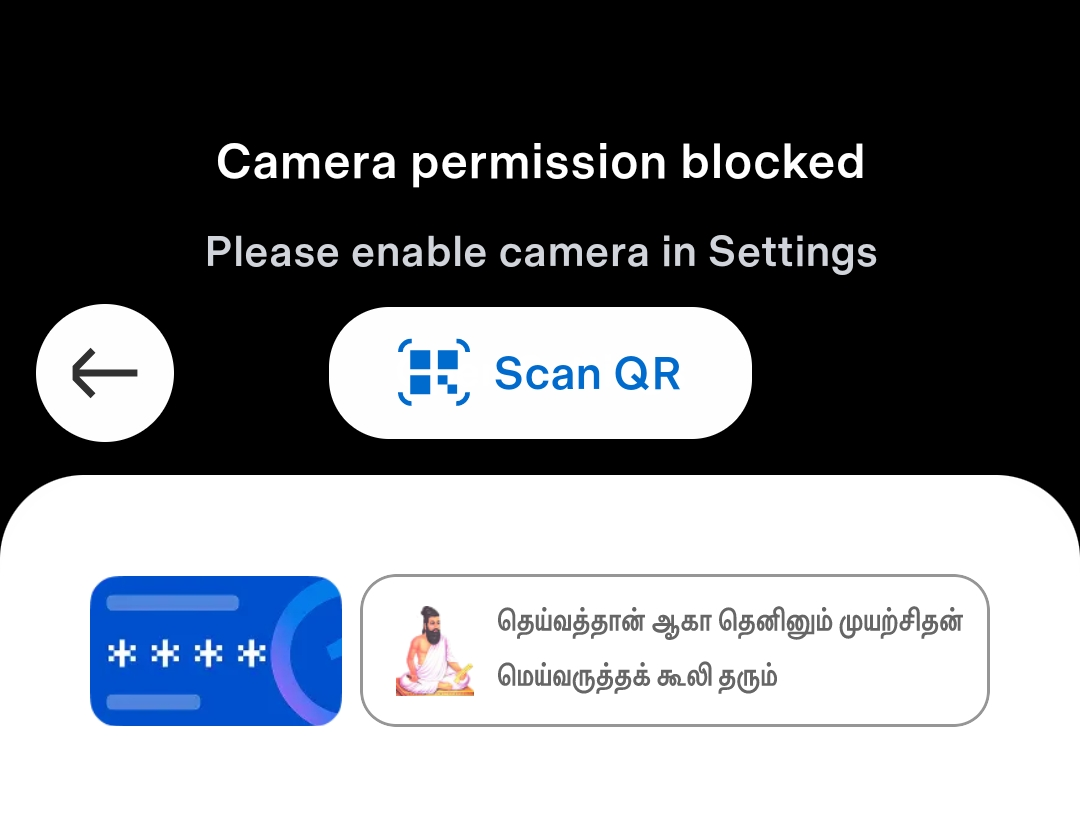
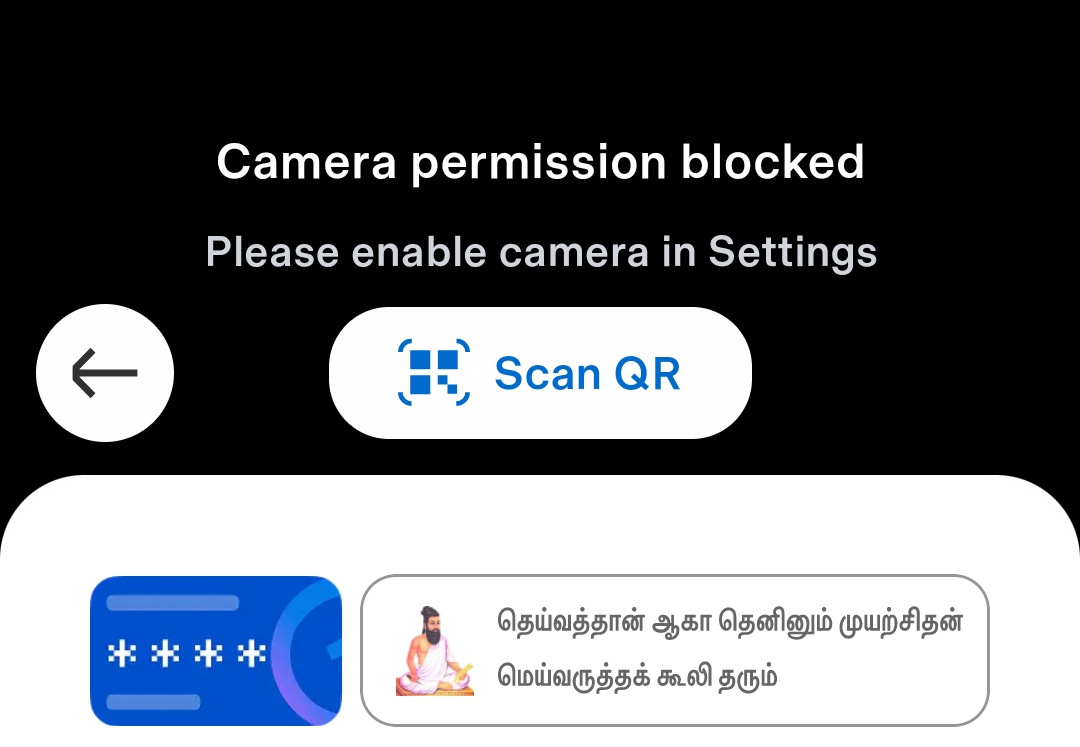
ticket ui update

Changed region(s): [[0.0, 0.2771, 1.0, 0.739], [0.0611, 0.6774, 0.9167, 0.9853], [0.1833, 0.1539, 0.825, 0.2463]]

diff --git a/assets/js/app.js b/assets/js/app.js
@@ -145,7 +145,7 @@ function updateTicketDisplay() {
 function keyPress(char) {
   if (ticketInput.length >= MAX_LEN) return;
 
-  const isAlpha = ['J', 'K', 'I', 'S'].includes(char);
+  const isAlpha = ['J', 'K', 'I', 'S', 'L'].includes(char);
 
   if (ticketInput.length === 0) {
     // First position must be alphabet
@@ -166,9 +166,12 @@ function keyDelete() {
   ticketInput = ticketInput.slice(0, -1);
   updateTicketDisplay();
   updateKeyboardState();
-  if (ticketInput.length === 0) {
-    document.querySelector('.bottom-nav').style.display = 'none'; // stays hidden on ticket page
-  }
+}
+
+function keyClear() {
+  ticketInput = '';
+  updateTicketDisplay();
+  updateKeyboardState();
 }
 
 function updateKeyboardState() {
@@ -192,19 +195,42 @@ function showActivatedStamp(code) {
   document.getElementById('previewBtn').style.display = 'block';
 }
 
+// ── Recently used tickets ──
+function getRecentTickets() {
+  return JSON.parse(localStorage.getItem('recentTickets') || '[]');
+}
+
+function saveRecentTicket(code) {
+  let recent = getRecentTickets().filter(c => c !== code);
+  recent.unshift(code);
+  localStorage.setItem('recentTickets', JSON.stringify(recent.slice(0, 3)));
+}
+
+function renderRecentTickets() {
+  const el = document.getElementById('recentTickets');
+  if (!el) return;
+  const recent = getRecentTickets();
+  el.innerHTML = recent.map(code =>
+    `<div class="recent-chip" onclick="fillFromRecent('${code}')">${code}</div>`
+  ).join('');
+}
+
+function fillFromRecent(code) {
+  ticketInput = code;
+  updateTicketDisplay();
+  updateKeyboardState();
+}
+
 function activatePass() {
   if (ticketInput.length < MAX_LEN) return;
 
   currentEnteredCode = ticketInput;
   localStorage.setItem('enteredCode', currentEnteredCode);
+  saveRecentTicket(currentEnteredCode);
 
-  // Switch to passes page
   switchToPage('passes', 'Passes');
-
-  // Show stamp on card
   showActivatedStamp(currentEnteredCode);
 
-  // Reset ticket input
   ticketInput = '';
   updateTicketDisplay();
 }
@@ -301,9 +327,10 @@ function closeStampPreview() {
   document.getElementById('stampPreviewOverlay').style.display = 'none';
 }
 
-// ── Init ──
+// ── Init ──// ── Init ──
 updateTicketDisplay();
 updateKeyboardState();
+renderRecentTickets();
 
 // Restore activated pass state if it exists (saved permanently)
 if (currentEnteredCode) {

diff --git a/assets/css/style.css b/assets/css/style.css
@@ -429,11 +429,65 @@ display: flex;
 }
 .key.alpha{
   background:#ffffff;
-  font-size:28px;
+  font-size:22px;
   font-weight:500;
   color:#484848;
 }
 
+/* ── Alpha row (5 keys horizontal) ── */
+.alpha-row {
+  display: flex;
+  flex-direction: row;
+  gap: 12px;
+  padding: 5px 20px;
+  background: #ffffff;
+  /* border-bottom: 1px solid #f0f0f0; */
+  flex-shrink: 0;
+}
+
+.alpha-row .key.alpha {
+  flex: 1;
+  min-height: 42px;
+  border-radius: 20px;
+  border: 1px solid #e6e3e36e;
+  /* background: #f0f0f0; */
+  font-size: 25px;
+  font-weight: 700;
+  /* color: #333; */
+  color: #edebeb;
+      padding: 6px 5px;
+}
+
+.alpha-row .key.alpha:active { background: #d8d8d8; }
+
+/* ── Recently used chips ── */
+#recentTickets {
+  display: flex;
+  margin: 2px;
+  
+  flex-direction: row;
+  gap: 10px;
+  padding: 3px 10px 5px;
+  flex-shrink: 0;
+  min-height: 0;
+}
+
+.recent-chip {
+  flex: 1;
+  padding: 4px 4px;
+  border-radius: 8px;
+  border:1px solid #e6e3e36e; 
+  text-align: center;
+  font-size: 14px;
+  font-weight: 700;
+  color: #a39d9d;
+  letter-spacing: 1px;
+  /* cursor: pointer; */
+  touch-action: manipulation;
+  -webkit-tap-highlight-color: transparent;
+}
+
+.recent-chip:active { background: #e8e8e8; }
 .key.num{
   background:#ffffff;
   color:#b5b5b5;
@@ -448,7 +502,7 @@ display: flex;
 
 #ticketEnteredText {
   text-align: center; font-size: 40px; font-weight: 700;
-  letter-spacing: 12px; color: #707070; padding: 6px 0 2px;
+  letter-spacing: 12px; color: #707070; padding: 5px 0 2px;
   min-height: 46px; font-family: monospace;
   display: flex; justify-content: center; gap: 20px;
 }
@@ -460,7 +514,7 @@ display: flex;
   width:50px;
   height:60px;
   border-radius:10px;
-  font-size:42px;
+  font-size:50px;
   font-weight:700;
   color:#9c9c9c;
   background:transparent;

diff --git a/index.html b/index.html
@@ -181,10 +181,20 @@
           Activate Pass <span class="chevrons">&raquo;</span>
         </div>
 
-        <div class="keypad">
+        <!-- Recently used (max 3 chips) -->
+        <div id="recentTickets"></div>
+
+        <!-- Alpha row: I S J K L -->
+        <div class="alpha-row">
+          <div class="key alpha" onclick="keyPress('I')">I</div>
+          <div class="key alpha" onclick="keyPress('S')">S</div>
           <div class="key alpha" onclick="keyPress('J')">J</div>
           <div class="key alpha" onclick="keyPress('K')">K</div>
-          <div class="key alpha" onclick="keyPress('I')">I</div>
+          <div class="key alpha" onclick="keyPress('L')">L</div>
+        </div>
+
+        <!-- Number grid: 3 cols -->
+        <div class="keypad">
           <div class="key num" onclick="keyPress('1')">1</div>
           <div class="key num" onclick="keyPress('2')">2</div>
           <div class="key num" onclick="keyPress('3')">3</div>
@@ -194,7 +204,7 @@
           <div class="key num" onclick="keyPress('7')">7</div>
           <div class="key num" onclick="keyPress('8')">8</div>
           <div class="key num" onclick="keyPress('9')">9</div>
-          <div class="key alpha" onclick="keyPress('S')">S</div>
+          <div class="key del" onclick="keyClear()">Clear</div>
           <div class="key num" onclick="keyPress('0')">0</div>
           <div class="key del" onclick="keyDelete()">⌫</div>
         </div>
